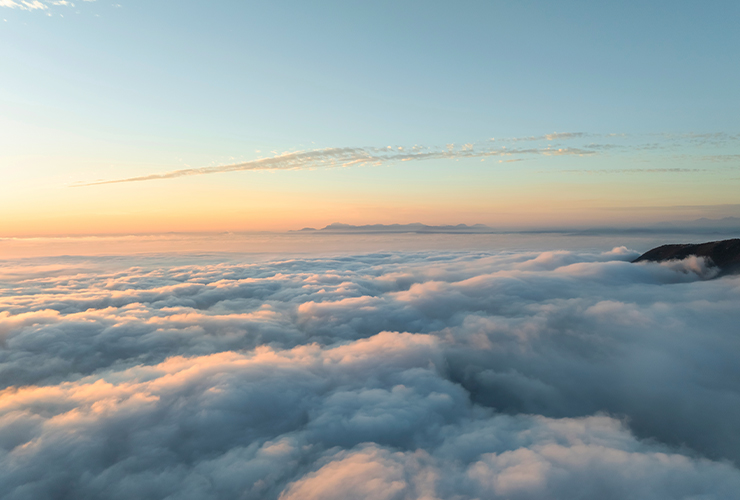
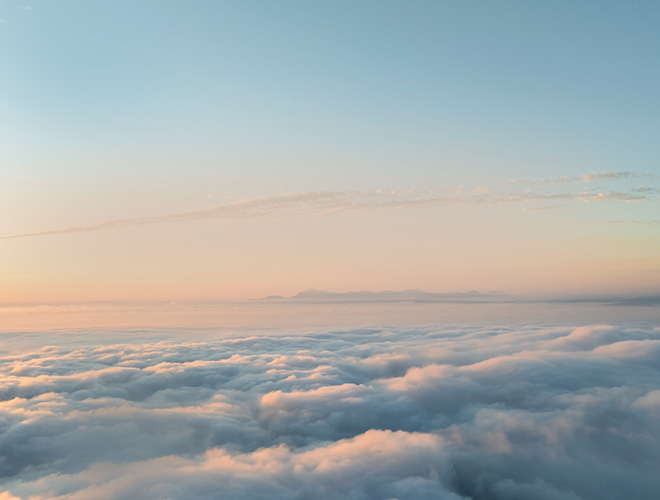
sf

diff --git a/PlusCard/JetBlue_PlusCard_DigitalBanners_HTML5_300x250/mainRL1.js b/PlusCard/JetBlue_PlusCard_DigitalBanners_HTML5_300x250/mainRL1.js
@@ -20,9 +20,9 @@ function init() {
 function animate() {
   tl.set(["#main_content"], { autoAlpha: 1, force3D: true });
   tl.set(["#copy2", "#copy3", "#copy4", "#cta"], { y: 20, autoAlpha: 0 });
-  tl1.set("#bg", {x:-45, force3D:true});
+  tl1.set("#bg", {x:-30, force3D:true});
 
-  tl1.to('#bg', 12, { x: 0, ease: "none" }, 0);
+  tl1.to('#bg', 10, { x: 0, ease: "none" }, 0);
 
   tl.addLabel("frame1", 0)
     .to(copy1, 1, { autoAlpha: 1, ease: "power1.inOut" }, "frame1")

diff --git a/PlusCard/JetBlue_PlusCard_DigitalBanners_HTML5_300x250/index.html b/PlusCard/JetBlue_PlusCard_DigitalBanners_HTML5_300x250/index.html
@@ -20,7 +20,7 @@
       <!--start main_container-->
       <div id="main_content" class="">
         <!-- <img src="images/f1.jpg" class="full-width" style="position: absolute; top: 0px; left: 0px; opacity: .5; z-index: 1111;" alt=""> -->
-          <img src="images/bg1.jpg" id="bg" alt="" />
+          <img src="images/bg.jpg" id="bg" alt="" />
           <div class="copy1" id="copy1">
             <div class="line1">Earn</div>
             <div class="line2">60,000</div>

diff --git a/PlusCard/JetBlue_PlusCard_DigitalBanners_HTML5_300x250/stylesRL1.css b/PlusCard/JetBlue_PlusCard_DigitalBanners_HTML5_300x250/stylesRL1.css
@@ -81,7 +81,7 @@ video {
   height: 250px;
 }
 #bg{
-  width: 396px;
+  width: 330px;
   height: auto;
 }
 .copy1, .copy2, .copy3{
